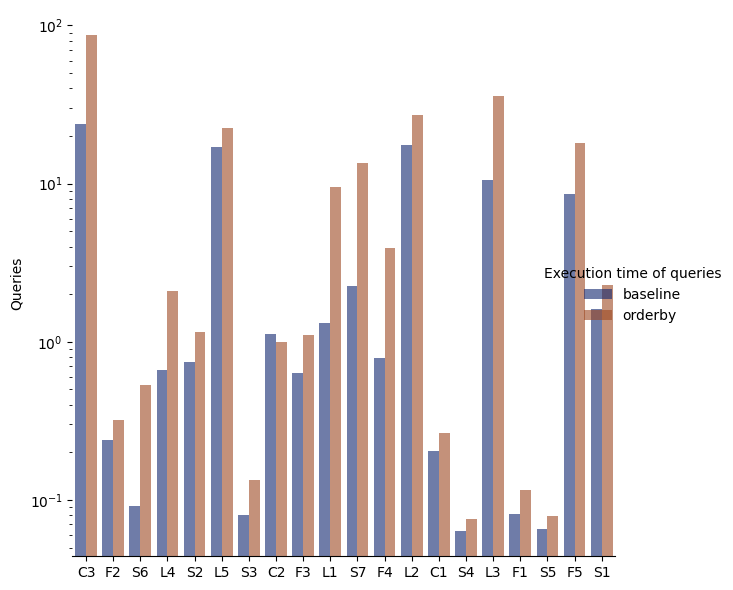
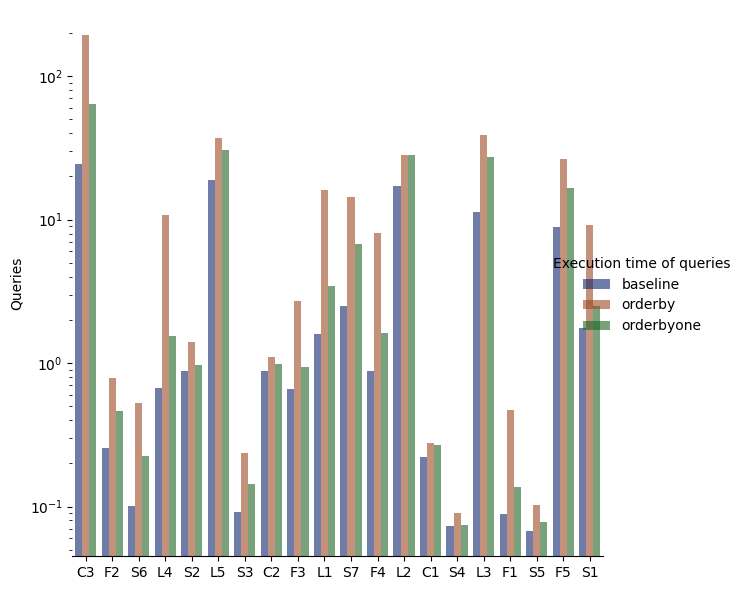
added onetopk xp

diff --git a/scripts/plots.py b/scripts/plots.py
@@ -85,6 +85,23 @@ def change_limit(data, output):
     chart.savefig(output)
 
 
+@cli.command()
+@click.argument('data', type=click.Path(exists=True, file_okay=True, dir_okay=False))
+@click.argument('output', type=click.Path())
+def change_limit_overhead(data, output):
+    dataframe = read_csv(data, sep=',')
+    selection=dataframe[dataframe["engine"]=="orderby"]
+    selection['overhead']=selection["loading_time"]+selection["resume_time"]
+    chart=sns.catplot(data=selection, kind="bar",x="query", y="overhead",hue="limit",
+        palette="dark", alpha=.6, height=6)
+    chart.despine(left=True)
+    chart.set_axis_labels("times in s", "Queries")
+    chart.legend.set_title("overhead")
+    chart.set(yscale="log")
+
+    chart.savefig(output)
+
+
 
 @cli.command()
 @click.argument('data', type=click.Path(exists=True, file_okay=True, dir_okay=False))

diff --git a/scripts/query_sage.py b/scripts/query_sage.py
@@ -101,6 +101,12 @@ def execute(query, endpoint, default_graph, output, measures,orderby,limit):
 
     if orderby is True:
         print(f"need to sort with orderby:{orderclause} limit:{limitclause}")
+        # for bindings in json_response['bindings']:
+        #  topk.append(bindings)
+        # for e in reversed(expr):
+        #     reverse = bool(e.order and e.order == 'DESC')
+        #     topk = sorted(topk, key=lambda x: to_rdflib_term(x['?'+e.expr]),reverse=reverse)
+
 
     if output is not None:
         with open(output, 'w') as output_file:

diff --git a/scripts/query_orderby.py b/scripts/query_orderby.py
@@ -1,0 +1,1 @@
+/Users/molli-p/orderby/sage-engine/sage/cli/query_orderby.py
